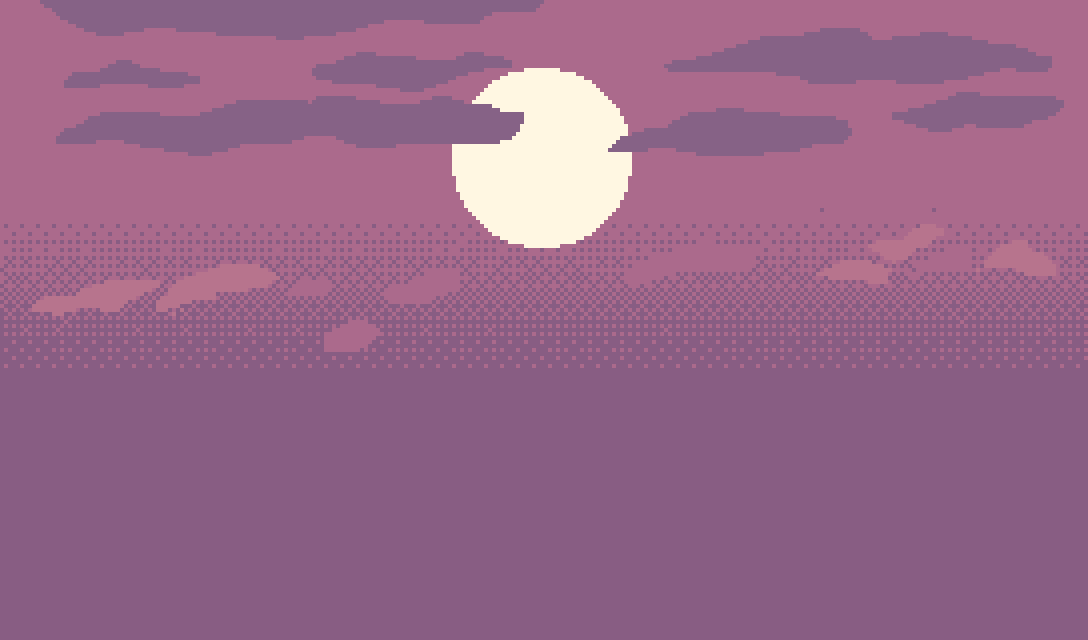
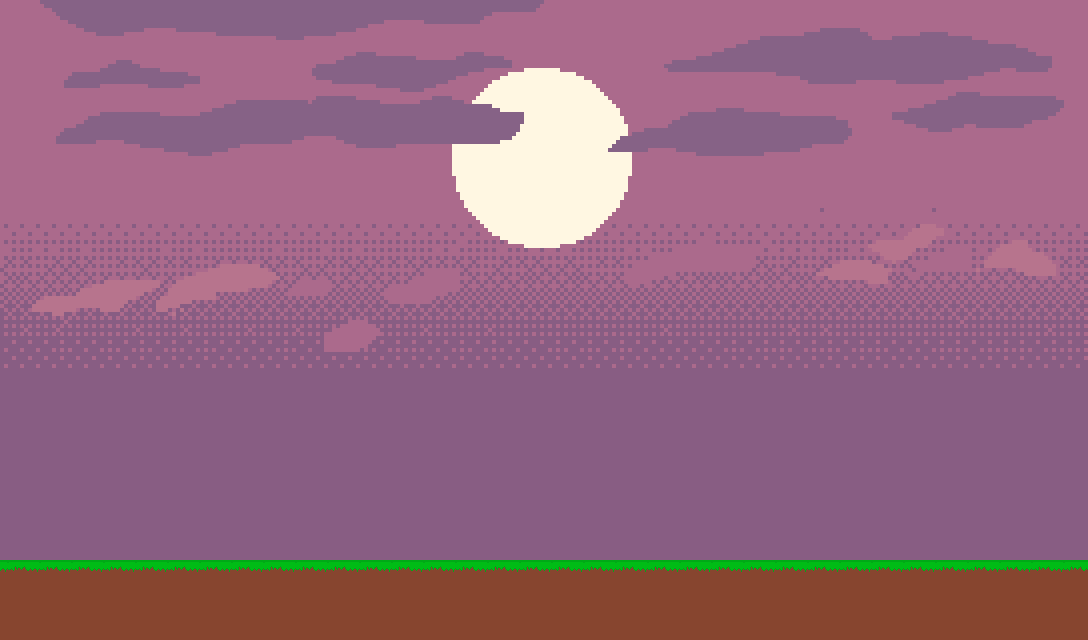
animation work + ground

Changed region(s): [[0.0, 0.875, 1.0, 1.0]]

diff --git a/src/Player.java b/src/Player.java
@@ -11,11 +11,12 @@ public class Player {
 	private URL l;
 	private URL w;
 	private URL wl;
+	
 	private ImageIcon fi;
 	private ImageIcon li;
 	private ImageIcon wi;
 	private ImageIcon wli;
-
+	
 	private Image img;
 	
 	public Player()
@@ -96,38 +97,6 @@ public class Player {
 			dy = 1;
 	}
 	
-	boolean yeet = false;
-	
-	public void walkAnimF()
-	{
-		if(yeet == false)
-		{
-			img = fi.getImage();
-			yeet = true;
-		}
-		else
-		{
-			img = wi.getImage();
-			yeet = false;
-		}
-	}
-	
-	public void walkAnimL()
-	{
-		if(yeet == false)
-		{
-			img = li.getImage();
-			yeet = true;
-		}
-		else
-		{
-			img = wli.getImage();
-			yeet = false;
-		}
-
-	}
-	
-	
 	public void keyReleased(KeyEvent e)
 	{
 		int key = e.getKeyCode();
@@ -138,5 +107,45 @@ public class Player {
 			dx = 0;
 		if(key == KeyEvent.VK_W)
 			dy = 0;
+	}
+	
+	boolean yeet = false;
+	int count = 0;
+	
+	public void walkAnimF()
+	{
+		if(yeet == false)
+		{
+			img = fi.getImage();
+			count++;
+			if(count % 5 == 0)
+				yeet = true;
+		}
+		else
+		{
+			img = wi.getImage();
+			count++;
+			if(count % 5 == 0)
+				yeet = false;
+		}
+	}
+	
+	public void walkAnimL()
+	{
+		if(yeet == false)
+		{
+			img = li.getImage();
+			count++;
+			if(count % 5 == 0)
+				yeet = true;
+		}
+		else
+		{
+			img = wli.getImage();
+			count++;
+			if(count % 5 == 0)
+				yeet = false;
+		}
+
 	}
 }
